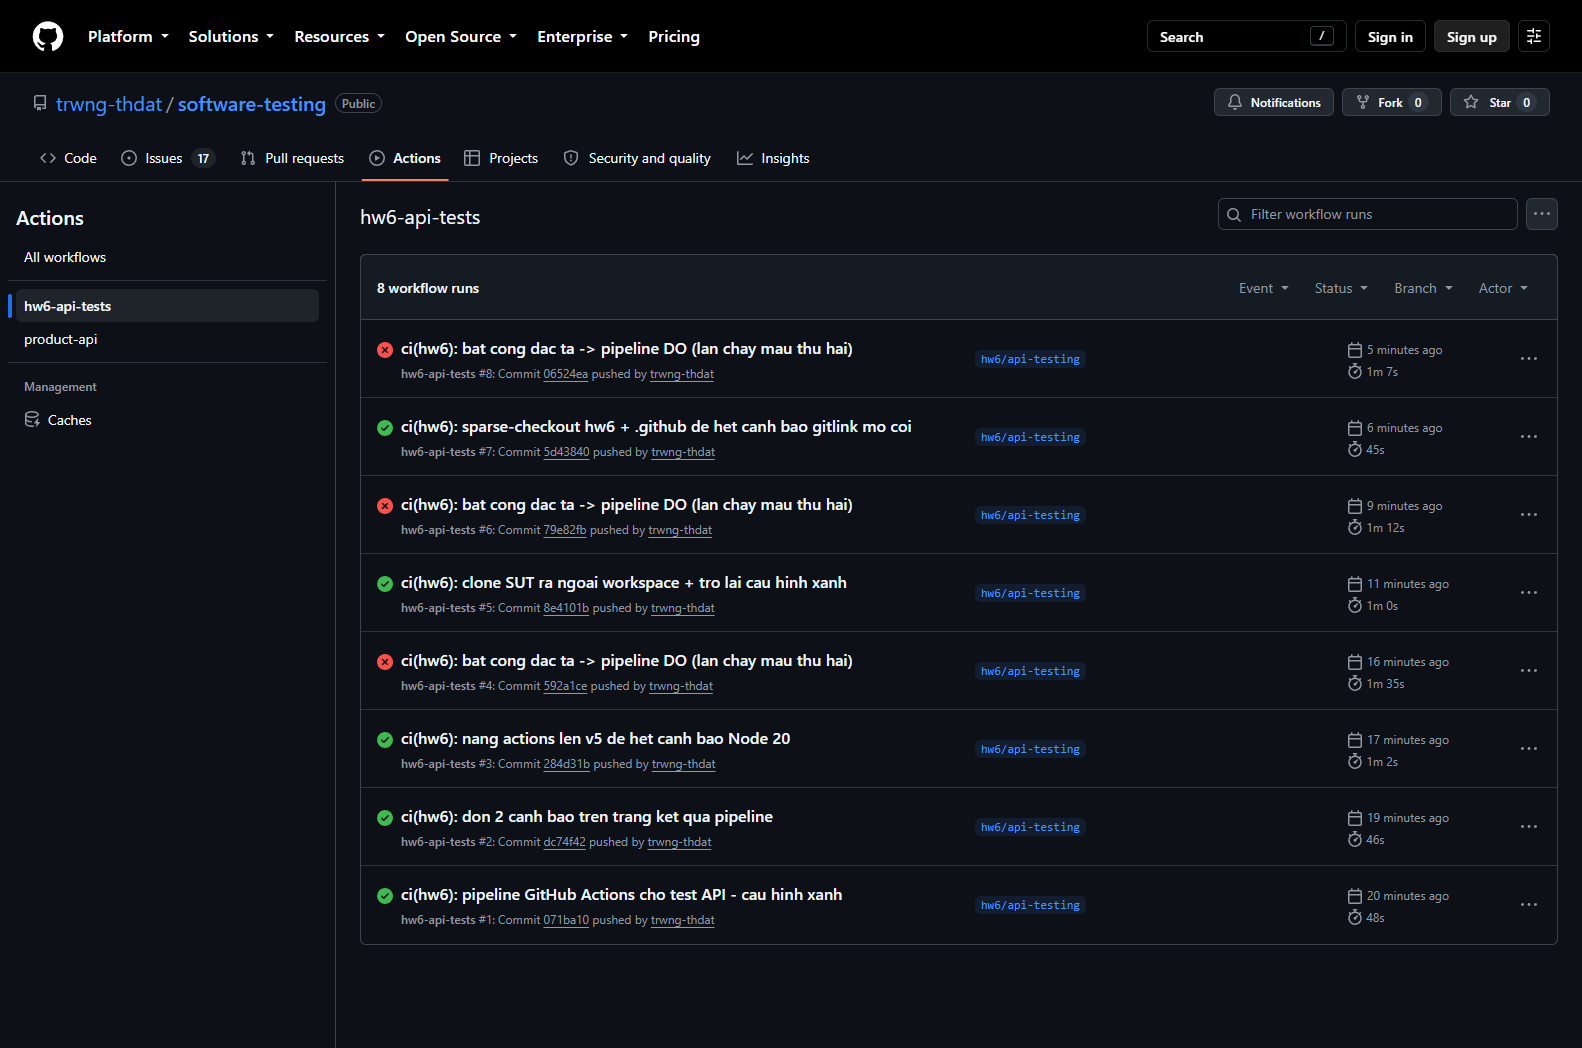
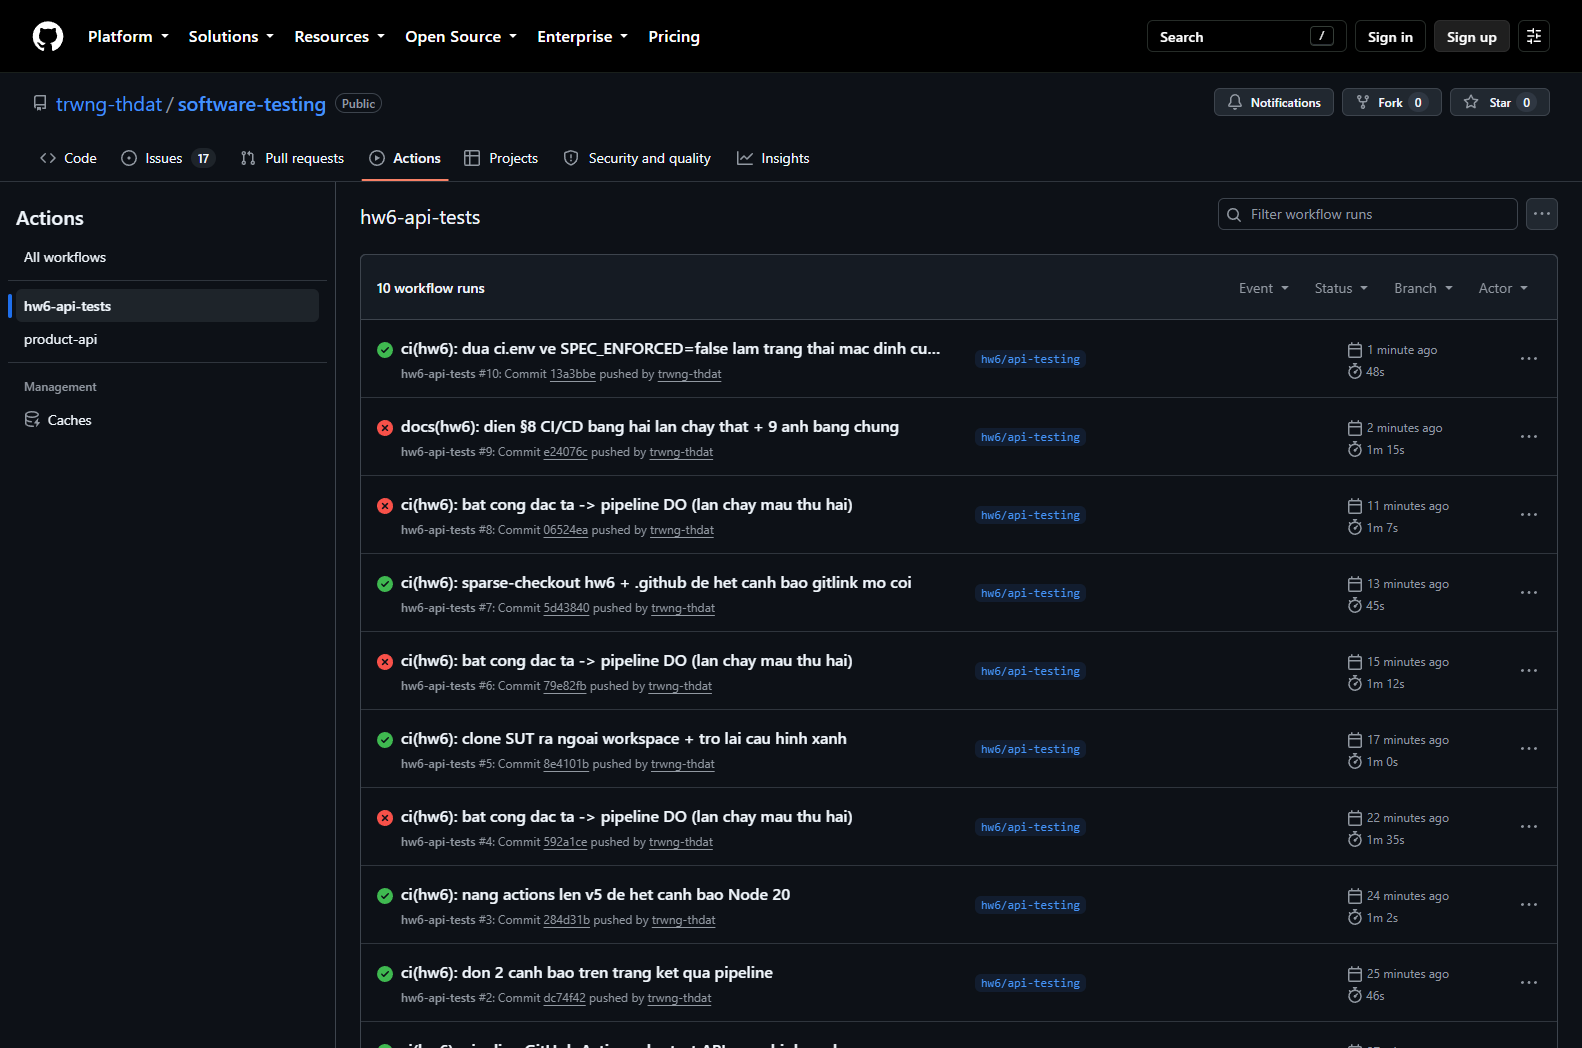
docs(hw6): ghi chu trang thai cuoi cua nhanh va lich su lan chay CI
Anh danh sach Actions duoc chup lai sau khi da co day du lich su. Them ghi chu:
cac lan chay khac trong lich su la qua trinh don dan canh bao cua pipeline (§8.4)
va cac lan bat SPEC_ENFORCED de kiem chung co che truoc khi chot hai lan chay mau.
Trang thai cuoi cua nhanh la SPEC_ENFORCED=false (commit 13a3bbe, run xanh).

diff --git a/hw6/evidence/_ci_spec_log.html b/hw6/evidence/_ci_spec_log.html
@@ -1,0 +1,86 @@
+<!doctype html><meta charset="utf-8"><style>body{background:#0d1117;color:#c9d1d9;font:13px/1.5 Consolas,monospace;margin:0;padding:18px}h1{color:#58a6ff;font-size:15px;margin:0 0 4px}p{color:#8b949e;font-size:12px;margin:0 0 14px}pre{margin:0;white-space:pre-wrap}</style><h1>CI - job spec-gate, lan chay DO (06524ea): assertion theo dac ta that bai</h1><p>Log lay bang: gh run view --job 96359055611 --log  |  Trang Actions doi dang nhap moi xem log, nen day la ban render lai, noi dung y het.</p><pre>##[group]Run bash hw6/scripts/run_newman.sh spec-strict
+^[[36;1mbash hw6/scripts/run_newman.sh spec-strict^[[0m
+↳ SPEC-BUG-01 - [SEC-06] Client KHONG duoc phep tu doi role qua PUT /api/users/me
+↳ SPEC-BUG-02 - [SEC-01] GET /api/users/me KHONG duoc tra ve mat khau
+↳ SPEC-BUG-03 - [SEC-02] Token tu ky bang secret hardcode KHONG duoc chap nhan
+↳ SPEC-BUG-04 - [FR-04] phone phai la 10-11 chu so va bat dau bang 0
+↳ SPEC-BUG-05 - [SEC-03] GET /api/admin/users phai kiem role="admin" trong token
+↳ SPEC-BUG-06 - [FR-10] User KHONG duoc huy don dang shipping
+↳ SPEC-BUG-07 - [FR-10] canceled la trang thai KET THUC, khong the chuyen sang delivered
+↳ SPEC-BUG-08 - [SEC-02] GET /api/orders/:id phai yeu cau xac thuc
+↳ SPEC-BUG-09 - [FR-10] Thong bao loi phai cho biet ly do khong huy duoc
+↳ SPEC-BUG-10 - [SEC-03] User thuong KHONG duoc tao coupon
+↳ SPEC-BUG-11 - [SEC-03] User thuong KHONG duoc xoa coupon he thong
+↳ SPEC-BUG-12 - [FR-17] discount_value phai > 0
+↳ SPEC-BUG-13 - [FR-17] max_uses_per_user phai >= 1
+↳ SPEC-BUG-14 - [FR-17] code phai la duy nhat - null khong duoc pha vo rang buoc
+↳ SPEC-BUG-15 - [Xu ly loi] Trung code phai tra 409, khong duoc tra 500 kem text driver
+↳ SPEC-BUG-16 - [Xu ly loi] Thieu body phai tra 400 JSON, khong duoc 500 HTML
+│              assertions │              73 │              22 │
+ 01.  AssertionError  GET /api/users/me: role = "user" roi tra role ve "user"                                                                                                            
+                      expected 'admin' to deeply equal 'user'                                                                                                                            
+                      inside "SPEC - Assertion theo dac ta (CO Y DINH THAT BAI - phoi bay bug) / SPEC-BUG-01 - [SEC-06] Client KHONG duoc phep tu doi role qua PUT /api/users/me"        
+ 02.  AssertionError  Response KHONG chua key "password"                                                                                                                                 
+                      expected { id: 2, name: 'SPEC-BUG-01', …(8) } to not have property 'password'                                                                                      
+                      inside "SPEC - Assertion theo dac ta (CO Y DINH THAT BAI - phoi bay bug) / SPEC-BUG-02 - [SEC-01] GET /api/users/me KHONG duoc tra ve mat khau"                    
+ 03.  AssertionError  Token mao danh phai bi tu choi (401 hoac 403), KHONG duoc tra 200                                                                                                  
+                      ma trang thai: expected 200 to be one of [ 401, 403 ]                                                                                                              
+                      inside "SPEC - Assertion theo dac ta (CO Y DINH THAT BAI - phoi bay bug) / SPEC-BUG-03 - [SEC-02] Token tu ky bang secret hardcode KHONG duoc chap nhan"           
+ 04.  AssertionError  phone sai dinh dang phai bi tu choi 400                                                                                                                            
+                      expected 200 to deeply equal 400                                                                                                                                   
+                      inside "SPEC - Assertion theo dac ta (CO Y DINH THAT BAI - phoi bay bug) / SPEC-BUG-04 - [FR-04] phone phai la 10-11 chu so va bat dau bang 0"                     
+ 05.  AssertionError  Token role=user phai bi tu choi 403 o endpoint admin                                                                                                               
+                      expected 200 to deeply equal 403                                                                                                                                   
+                      inside "SPEC - Assertion theo dac ta (CO Y DINH THAT BAI - phoi bay bug) / SPEC-BUG-05 - [SEC-03] GET /api/admin/users phai kiem role="admin" trong token"         
+ 06.  AssertionError  Huy don shipping phai bi tu choi 400                                                                                                                               
+                      expected 200 to deeply equal 400                                                                                                                                   
+                      inside "SPEC - Assertion theo dac ta (CO Y DINH THAT BAI - phoi bay bug) / SPEC-BUG-06 - [FR-10] User KHONG duoc huy don dang shipping"                            
+ 07.  AssertionError  GET /api/orders/:id: status = "shipping"                                                                                                                           
+                      expected 'canceled' to deeply equal 'shipping'                                                                                                                     
+                      inside "SPEC - Assertion theo dac ta (CO Y DINH THAT BAI - phoi bay bug) / SPEC-BUG-06 - [FR-10] User KHONG duoc huy don dang shipping"                            
+ 08.  AssertionError  canceled -> delivered phai bi tu choi 400                                                                                                                          
+                      expected 200 to deeply equal 400                                                                                                                                   
+                      inside "SPEC - Assertion theo dac ta (CO Y DINH THAT BAI - phoi bay bug) / SPEC-BUG-07 - [FR-10] canceled la trang thai KET THUC, khong the chuyen sang delivered" 
+ 09.  AssertionError  GET /api/orders/:id: status = "canceled"                                                                                                                           
+                      expected 'delivered' to deeply equal 'canceled'                                                                                                                    
+                      inside "SPEC - Assertion theo dac ta (CO Y DINH THAT BAI - phoi bay bug) / SPEC-BUG-07 - [FR-10] canceled la trang thai KET THUC, khong the chuyen sang delivered" 
+ 10.  AssertionError  Doc don hang khong token phai bi tu choi 401                                                                                                                       
+                      expected 200 to deeply equal 401                                                                                                                                   
+                      inside "SPEC - Assertion theo dac ta (CO Y DINH THAT BAI - phoi bay bug) / SPEC-BUG-08 - [SEC-02] GET /api/orders/:id phai yeu cau xac thuc"                       
+ 11.  AssertionError  Thong bao 400 phai nhac trang thai hien tai (delivered)                                                                                                            
+                      expected 'cannot cancel this order.' to include 'delivered'                                                                                                        
+                      inside "SPEC - Assertion theo dac ta (CO Y DINH THAT BAI - phoi bay bug) / SPEC-BUG-09 - [FR-10] Thong bao loi phai cho biet ly do khong huy duoc"                 
+ 12.  AssertionError  User thuong tao coupon phai bi tu choi 403                                                                                                                         
+                      expected 200 to deeply equal 403                                                                                                                                   
+                      inside "SPEC - Assertion theo dac ta (CO Y DINH THAT BAI - phoi bay bug) / SPEC-BUG-10 - [SEC-03] User thuong KHONG duoc tao coupon"                               
+ 13.  AssertionError  User thuong xoa coupon phai bi tu choi 403                                                                                                                         
+                      expected 200 to deeply equal 403                                                                                                                                   
+                      inside "SPEC - Assertion theo dac ta (CO Y DINH THAT BAI - phoi bay bug) / SPEC-BUG-11 - [SEC-03] User thuong KHONG duoc xoa coupon he thong"                      
+ 14.  AssertionError  Coupon BIGBUY phai con trong GET /api/coupons                                                                                                                      
+                      expected [ 'SAVE10', 'VIP100', 'EXPIRED', …(1) ] to include 'BIGBUY'                                                                                               
+                      inside "SPEC - Assertion theo dac ta (CO Y DINH THAT BAI - phoi bay bug) / SPEC-BUG-11 - [SEC-03] User thuong KHONG duoc xoa coupon he thong"                      
+ 15.  AssertionError  discount_value am phai bi tu choi 400                                                                                                                              
+                      expected 200 to deeply equal 400                                                                                                                                   
+                      inside "SPEC - Assertion theo dac ta (CO Y DINH THAT BAI - phoi bay bug) / SPEC-BUG-12 - [FR-17] discount_value phai > 0"                                          
+ 16.  AssertionError  max_uses_per_user = "0" phai bi tu choi 400                                                                                                                        
+                      expected 200 to deeply equal 400                                                                                                                                   
+                      inside "SPEC - Assertion theo dac ta (CO Y DINH THAT BAI - phoi bay bug) / SPEC-BUG-13 - [FR-17] max_uses_per_user phai >= 1"                                      
+ 17.  AssertionError  Gia tri luu vao DB phai >= 1 (khong duoc la 0)                                                                                                                     
+                      gia tri luu trong DB: expected +0 to be at least 1                                                                                                                 
+                      inside "SPEC - Assertion theo dac ta (CO Y DINH THAT BAI - phoi bay bug) / SPEC-BUG-13 - [FR-17] max_uses_per_user phai >= 1"                                      
+ 18.  AssertionError  Coupon thu hai voi code=null phai bi tu choi (400 hoac 409)                                                                                                        
+                      expected 200 to be one of [ 400, 409 ]                                                                                                                             
+                      inside "SPEC - Assertion theo dac ta (CO Y DINH THAT BAI - phoi bay bug) / SPEC-BUG-14 - [FR-17] code phai la duy nhat - null khong duoc pha vo rang buoc"         
+ 19.  AssertionError  Trung code phai tra 409/400, khong phai 500                                                                                                                        
+                      expected 500 to be one of [ 400, 409 ]                                                                                                                             
+                      inside "SPEC - Assertion theo dac ta (CO Y DINH THAT BAI - phoi bay bug) / SPEC-BUG-15 - [Xu ly loi] Trung code phai tra 409, khong duoc tra 500 kem text driver"  
+ 20.  AssertionError  Thong bao loi khong duoc lo chi tiet noi bo cua SQLite                                                                                                             
+                      expected '{"error":"SQLITE_CONSTRAINT: UNIQUE c…' to not include 'SQLITE_CONSTRAINT'                                                                               
+                      inside "SPEC - Assertion theo dac ta (CO Y DINH THAT BAI - phoi bay bug) / SPEC-BUG-15 - [Xu ly loi] Trung code phai tra 409, khong duoc tra 500 kem text driver"  
+ 21.  AssertionError  Thieu body phai tra 400 (khong phai 500)                                                                                                                           
+                      expected 500 to deeply equal 400                                                                                                                                   
+                      inside "SPEC - Assertion theo dac ta (CO Y DINH THAT BAI - phoi bay bug) / SPEC-BUG-16 - [Xu ly loi] Thieu body phai tra 400 JSON, khong duoc 500 HTML"            
+ 22.  AssertionError  Body loi phai la JSON co key error                                                                                                                                 
+                      response phai parse duoc thanh JSON: expected null not to be null                                                                                                  
+                      inside "SPEC - Assertion theo dac ta (CO Y DINH THAT BAI - phoi bay bug) / SPEC-BUG-16 - [Xu ly loi] Thieu body phai tra 400 JSON, khong duoc 500 HTML"            
+[run_newman] spec-strict: tra ve ma thoat 1 vi con assertion theo dac ta that bai</pre>

diff --git a/hw6/evidence/_ci_reg_log.html b/hw6/evidence/_ci_reg_log.html
@@ -1,0 +1,27 @@
+<!doctype html><meta charset="utf-8"><style>body{background:#0d1117;color:#c9d1d9;font:13px/1.5 Consolas,monospace;margin:0;padding:18px}h1{color:#58a6ff;font-size:15px;margin:0 0 4px}p{color:#8b949e;font-size:12px;margin:0 0 14px}pre{margin:0;white-space:pre-wrap}</style><h1>CI - job regression, lan chay XANH (5d43840): 6 lan chay Newman deu dat</h1><p>Log lay bang: gh run view --job 96358457283 --log  |  loc cac dong thong ke va reset_db.</p><pre>[reset_db] reset DB tai: /home/runner/work/_temp/sut/hw3/docs/eshop-sut/backend
+[reset_db] OK sau 1 lan kiem tra: user A role=user, 4 coupon seed, 0 don hang.
+│                requests │             102 │               0 │
+│              assertions │             224 │               0 │
+[run_newman] api1 ket thuc voi ma thoat 0
+[reset_db] reset DB tai: /home/runner/work/_temp/sut/hw3/docs/eshop-sut/backend
+[reset_db] OK sau 1 lan kiem tra: user A role=user, 4 coupon seed, 0 don hang.
+↳ TC-API2-019 - Huy don delivered (trang thai ket thuc) -> 400
+↳ TC-API2-020 - Huy don da canceled (trang thai ket thuc) -> 400
+│                requests │             138 │               0 │
+│              assertions │             239 │               0 │
+[run_newman] api2 ket thuc voi ma thoat 0
+[reset_db] reset DB tai: /home/runner/work/_temp/sut/hw3/docs/eshop-sut/backend
+[reset_db] OK sau 1 lan kiem tra: user A role=user, 4 coupon seed, 0 don hang.
+│                requests │             249 │               0 │
+│              assertions │             557 │               0 │
+[run_newman] api3 ket thuc voi ma thoat 0
+[reset_db] reset DB tai: /home/runner/work/_temp/sut/hw3/docs/eshop-sut/backend
+[reset_db] OK sau 1 lan kiem tra: user A role=user, 4 coupon seed, 0 don hang.
+│                requests │              12 │               0 │
+│              assertions │              24 │               0 │
+  │ delivered la trang thai ket thuc -> tu choi 400'
+│                requests │              27 │               0 │
+│              assertions │              24 │               0 │
+│                requests │              12 │               0 │
+│              assertions │              18 │               0 │
+[run_newman] regression ket thuc, fail=0 (0 la dat)</pre>

diff --git a/hw6/Main_Report.md b/hw6/Main_Report.md
@@ -1056,7 +1056,9 @@ Hai chi tiết đáng nói:
 | ❌ **Có test FAIL** | [`06524ea`](https://github.com/trwng-thdat/software-testing/commit/06524ea) | `true` | `failure` — `regression` **vẫn xanh**, `spec-gate` đỏ với **22 assertion fail** | [run 32347386625](https://github.com/trwng-thdat/software-testing/actions/runs/32347386625) |
 
 ![Danh sách lần chạy](./evidence/ci_runs_list.png)
-_Trang Actions: cả hai lần chạy cạnh nhau, kèm commit hash và nhánh._
+_Trang Actions: cả hai lần chạy cạnh nhau, kèm commit hash và nhánh. Lịch sử có thêm vài lần chạy khác — đó là quá trình tôi dọn dần các cảnh báo của pipeline (§8.4), và các lần chạy đỏ khác là những lần tôi bật `SPEC_ENFORCED` để kiểm chứng cơ chế trước khi chốt hai lần chạy mẫu._
+
+> **Trạng thái cuối của nhánh:** `SPEC_ENFORCED=false` (commit `13a3bbe`, run xanh). Để nhánh ở cấu hình cổng hồi quy để mọi lần push về sau không đỏ vì 22 lỗi đã biết. Hai lần chạy mẫu vẫn truy nguyên được bằng link ở bảng trên.
 
 ![Lần chạy xanh](./evidence/ci_run_pass.png)
 _Lần chạy xanh `5d43840`: `regression` success, `spec-gate` skipped._
